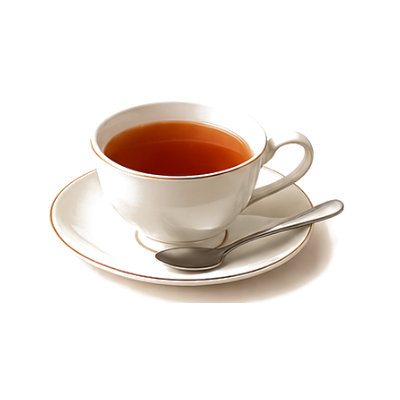
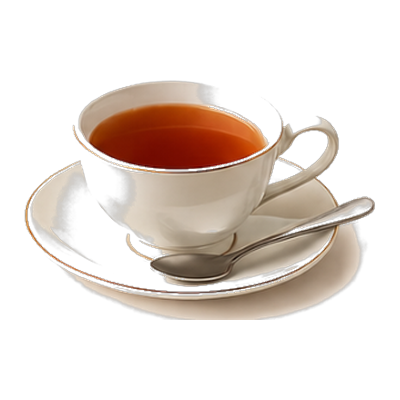
Tea: add Matcha photo and normalize all three teas to a uniform size

Changed region(s): [[0.06, 0.18, 0.96, 0.81]]

diff --git a/data.js b/data.js
@@ -91,11 +91,11 @@ window.MENU = [
     eyebrow: '',
     blurb: 'Brewed by the cup. Steeped to order.',
     items: [
-      { name: 'English Tea', ingr: 'black tea blend',  price: 2.75, color: '#9C3D1F', img: 'assets/drinks/coffee-english-tea.png?v=4',
+      { name: 'English Tea', ingr: 'black tea blend',  price: 2.75, color: '#9C3D1F', img: 'assets/drinks/coffee-english-tea.png?v=5',
         allergens: [], nutrition: { kj: 10, kcal: 2, fat: 0, satFat: 0, carbs: 0, sugars: 0, fibre: 0, protein: 0, sodium: 8 } },
-      { name: 'Green Tea',   ingr: 'loose-leaf sencha', price: 2.75, color: '#7A8A2D', img: 'assets/drinks/coffee-green-tea.png?v=4',
+      { name: 'Green Tea',   ingr: 'loose-leaf sencha', price: 2.75, color: '#7A8A2D', img: 'assets/drinks/coffee-green-tea.png?v=5',
         allergens: [], nutrition: { kj: 5, kcal: 1, fat: 0, satFat: 0, carbs: 0, sugars: 0, fibre: 0, protein: 0, sodium: 5 } },
-      { name: 'Matcha',      ingr: 'ceremonial matcha, hot water', price: 3.50, color: '#5E8A2D', img: '', allergens: [] },
+      { name: 'Matcha',      ingr: 'ceremonial matcha, hot water', price: 3.50, color: '#5E8A2D', img: 'assets/drinks/coffee-matcha.png?v=1', allergens: [] },
     ],
   },
 ];
